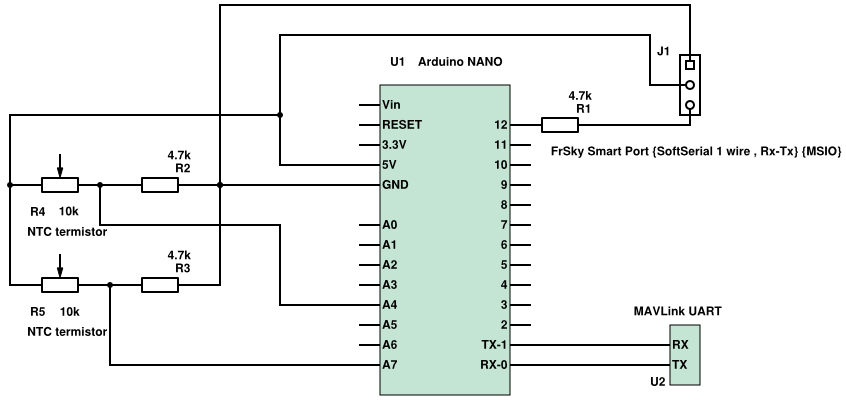
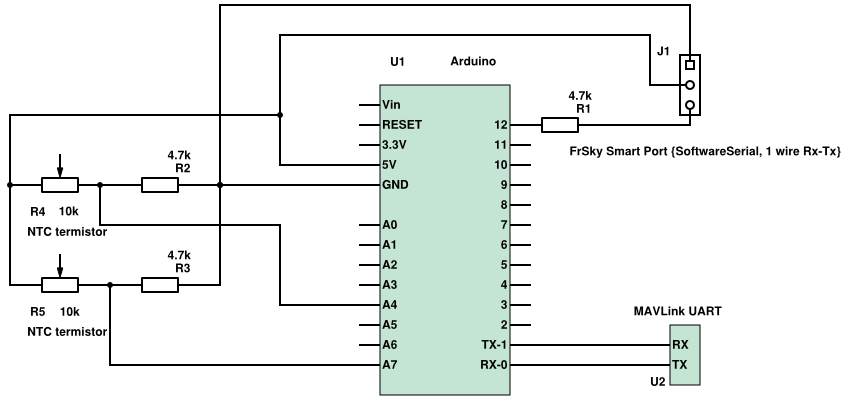
Update drawing

Changed region(s): [[0.6454, 0.36, 1.0, 0.39], [0.4917, 0.12, 0.5839, 0.18]]

diff --git a/README.md b/README.md
@@ -7,6 +7,7 @@ FrSky smart port is connected to a digital pin that SoftwareSerial drives.
 Besides MAVLink, Arduino provides 2 temperatures for smart port. Temperature is measured with NTC termistors.
 MAVLink and temperatures are displayed on FrSky Taranis LCD using Lua scripts.      
 There is a schematic drawing of Arduino pins, NTC termistors, MAVLink and smart port.
+There are some Arduino boards (for instance NANO) having the UART RX pin connected to USB-serial chip with 1k resistor.
+This resistor must be removed so that Arduino RX pin can be used. 
+Otherwise this RX pin is continuously driven by USB chip which would prevent the MAVLink serial communication.      
 
-
- 
